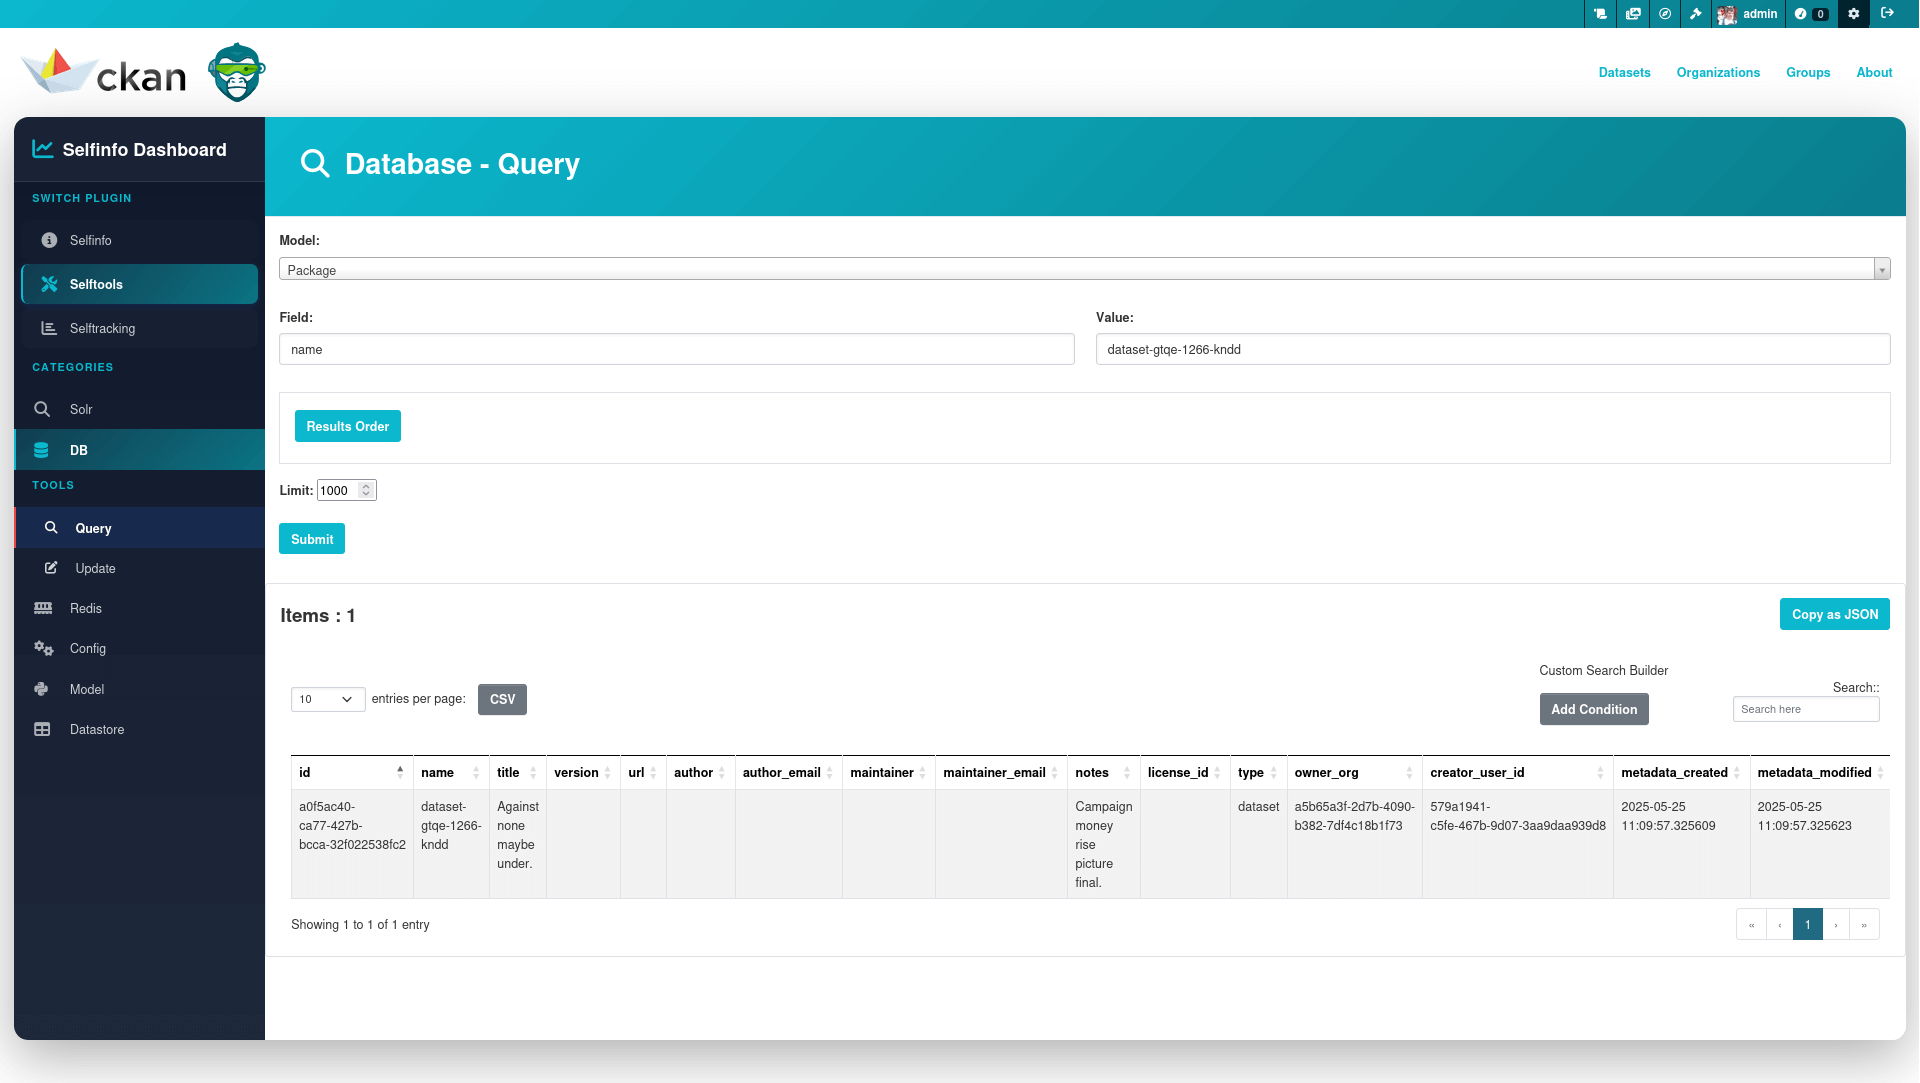
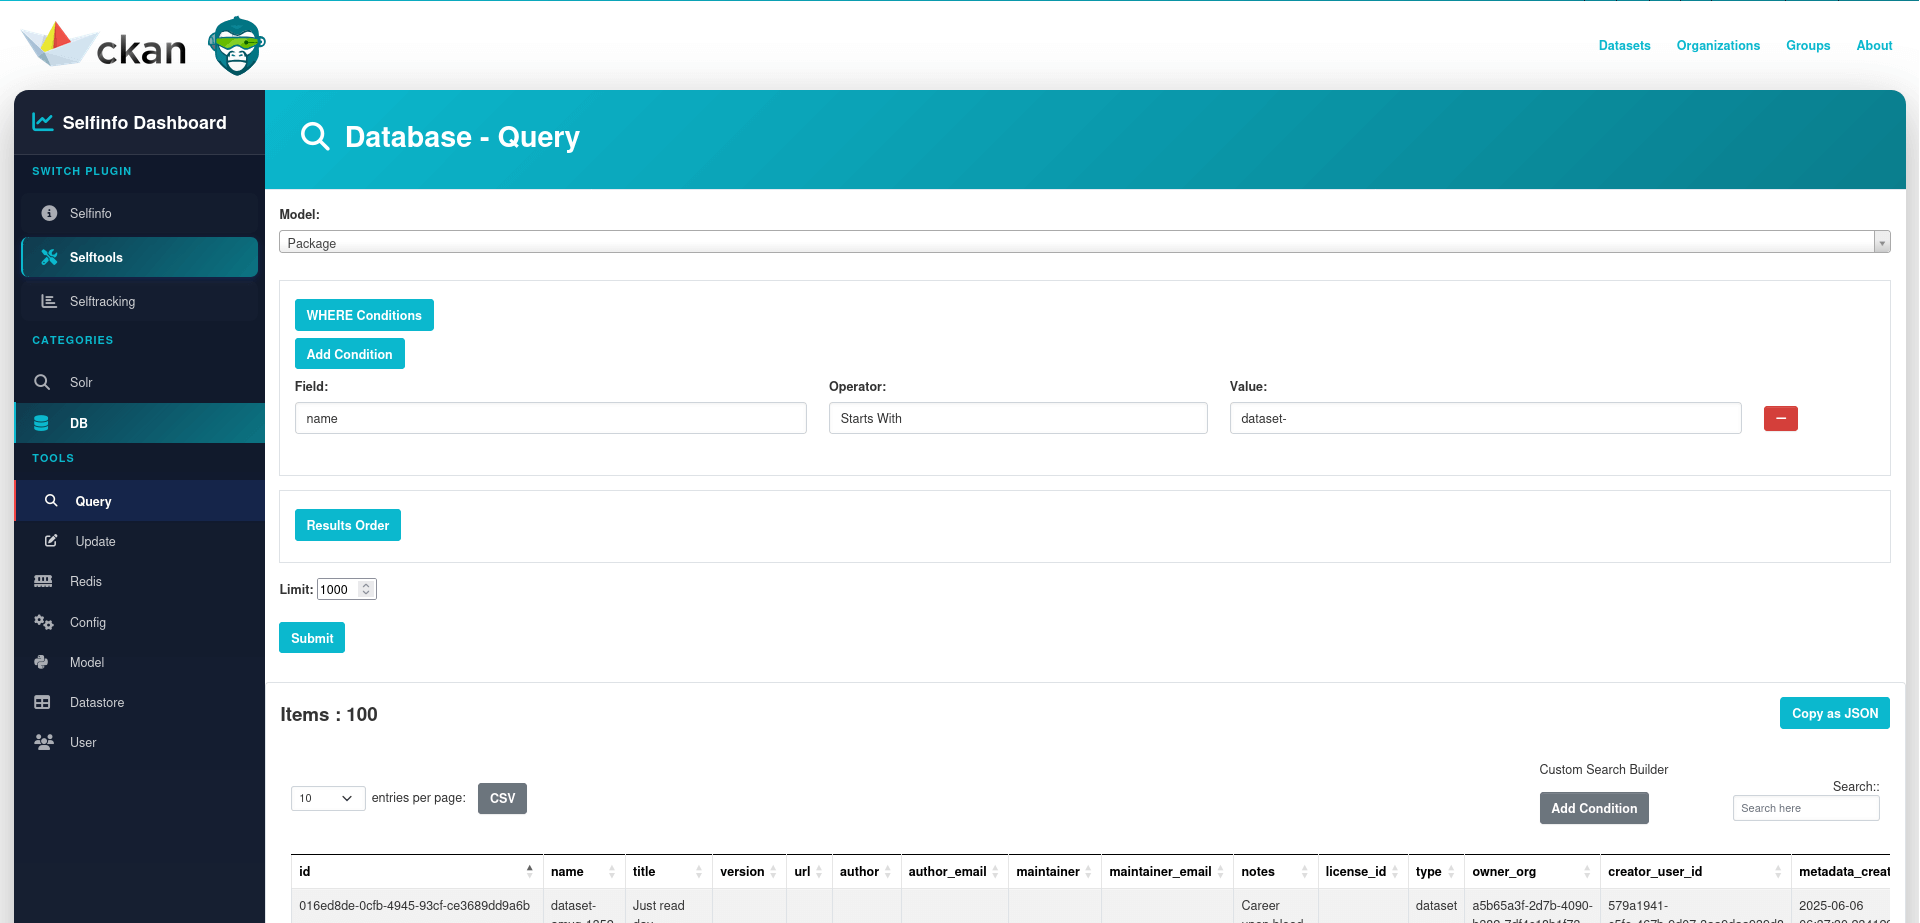
docs: Update DB Query documentation

diff --git a/docs/selftools/categories/db.md b/docs/selftools/categories/db.md
@@ -13,6 +13,15 @@ Provides an ability to search in DB using registered Models in CKAN.
 
 ![DB Query](../../assets/db_query.png)
 
+### Enhanced Query Capabilities
+
+The Query tool now supports:
+
+- **Multiple conditions**: you can add multiple search conditions simultaneously for more precise data filtering
+- **Flexible comparison operators**: various comparison operators are available (equals, not equals, contains, etc.) for more accurate query construction
+
+This allows you to create complex database queries without writing SQL code manually.
+
 ## Update
 
 Provides an ability to update data within DB.
